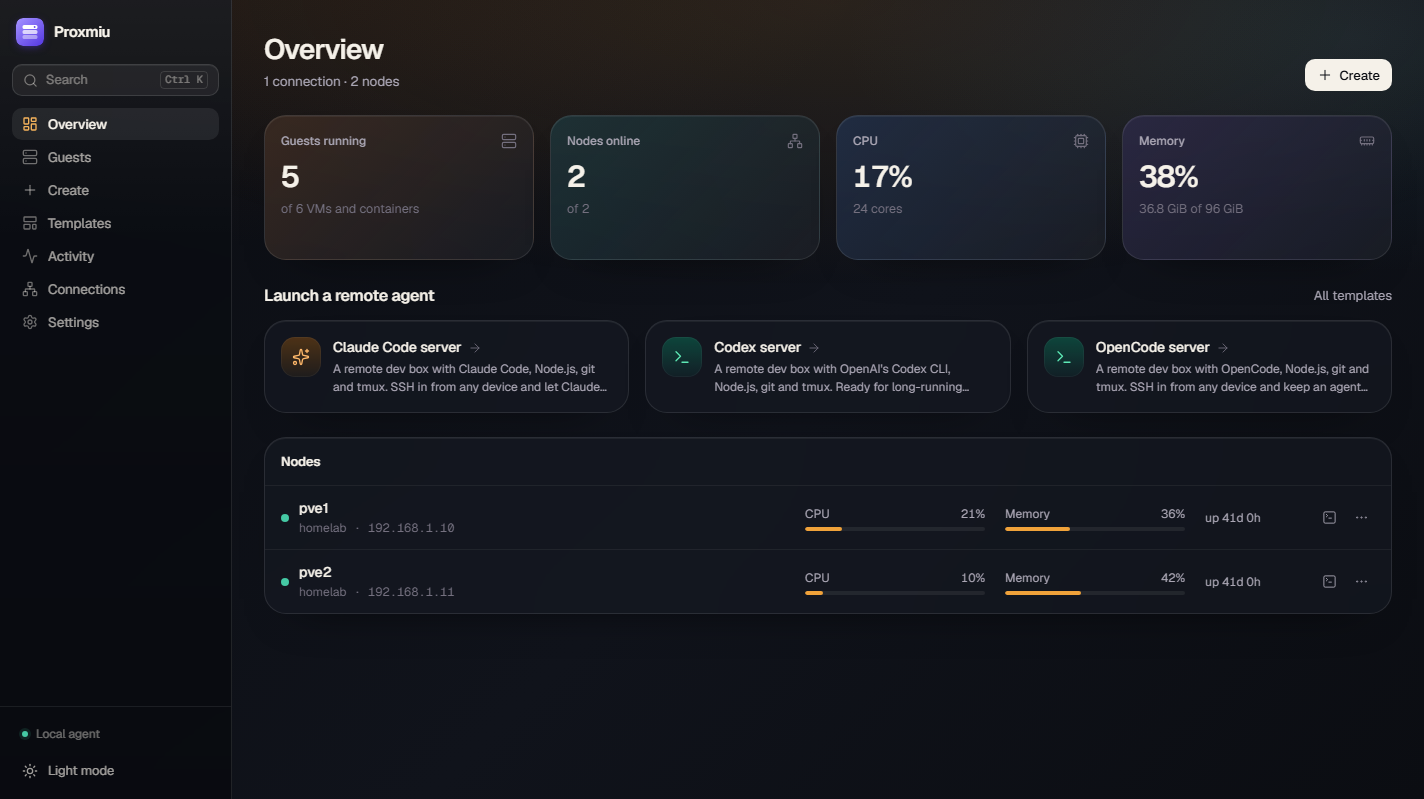
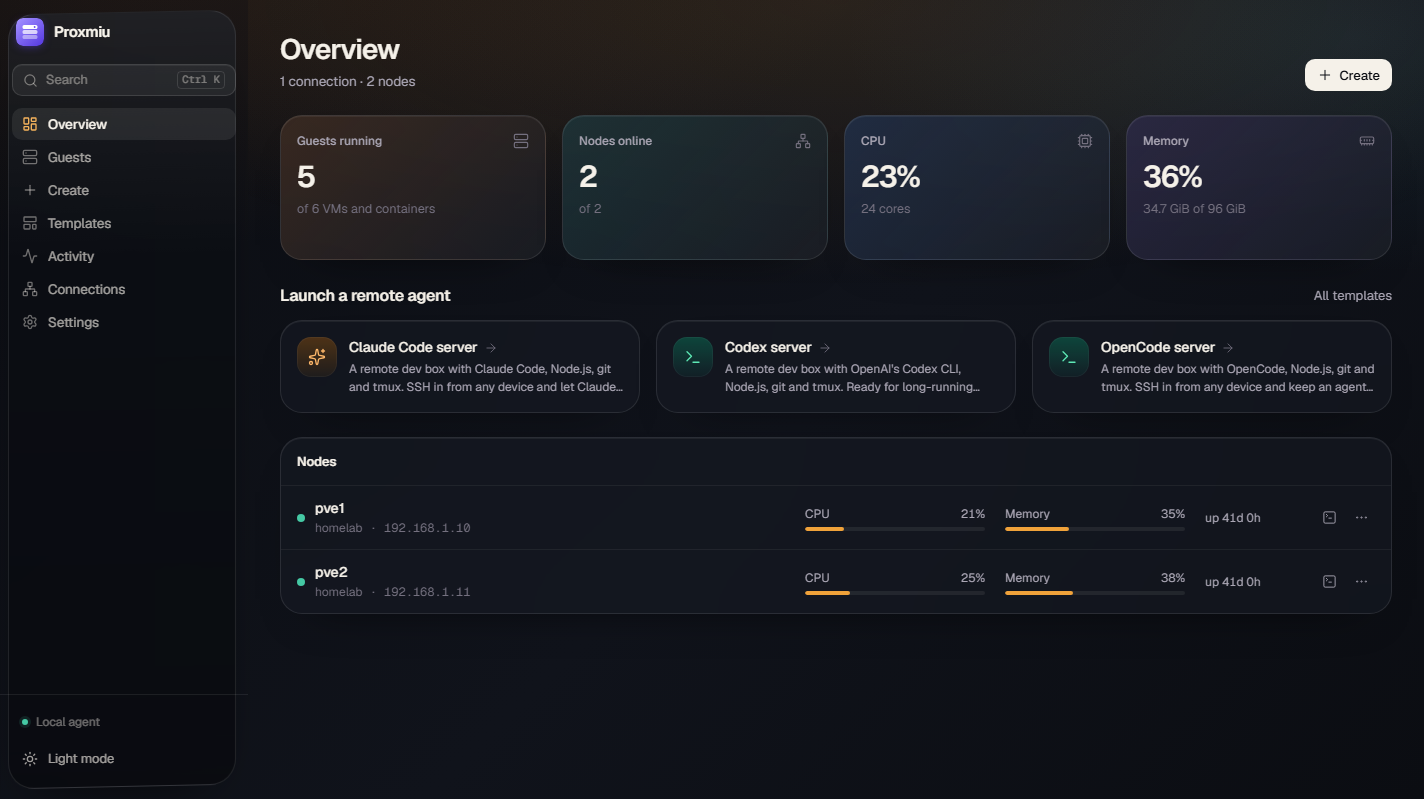
Skew the sidebar glass slab and refresh screenshots

diff --git a/web/src/components/Layout.tsx b/web/src/components/Layout.tsx
@@ -43,72 +43,78 @@ export function Layout({ authRequired, onLogout, onDisconnect }: { authRequired:
 
   return (
     <div className="flex h-full">
-      <aside className="nav-glass flex w-[232px] shrink-0 flex-col border-r border-white/10 bg-sidebar/90 backdrop-blur-2xl max-lg:w-[60px] max-sm:hidden">
-        <div className="flex h-16 items-center px-4 max-lg:justify-center max-lg:px-0">
-          <span className="max-lg:hidden">
-            <Logo />
-          </span>
-          <img src={LOGO} alt="Proxmiu" className="hidden size-7 rounded-[7px] max-lg:block" />
-        </div>
-        <div className="px-3 pb-2 max-lg:px-2">
-          <button
-            onClick={() => setPalette(true)}
-            className="flex h-8 w-full items-center gap-2 rounded-md border border-border bg-card px-2.5 text-[13px] text-faint shadow-[var(--shadow-card)] transition-colors hover:border-border-strong hover:text-muted max-lg:justify-center max-lg:px-0"
-          >
-            <Search className="size-[15px]" strokeWidth={2} />
-            <span className="max-lg:hidden">Search</span>
-            <kbd className="ml-auto rounded border border-border px-1 font-mono text-[10.5px] max-lg:hidden">{isMac ? '⌘' : 'Ctrl '}K</kbd>
-          </button>
-        </div>
-        <nav className="flex-1 space-y-px px-3 py-1 max-lg:px-2">
-          {nav.map(({ to, label, icon: Icon, end }) => (
-            <NavLink
-              key={to}
-              to={to}
-              end={end}
-              title={label}
-              className={({ isActive }) =>
-                cn(
-                  'group flex h-8 items-center gap-2.5 rounded-md px-2.5 text-[13.5px] text-muted transition-colors hover:bg-hover hover:text-foreground max-lg:justify-center max-lg:px-0',
-                  isActive && 'bg-hover font-medium text-foreground',
-                )
-              }
-            >
-              {({ isActive }) => (
-                <>
-                  <Icon className={cn('size-4 shrink-0 transition-colors', isActive ? 'text-brand' : 'text-faint group-hover:text-muted')} strokeWidth={2} />
-                  <span className="max-lg:hidden">{label}</span>
-                  {to === '/activity' && running > 0 && (
-                    <span className="tnum ml-auto flex h-[18px] min-w-[18px] items-center justify-center rounded-full bg-brand px-1 text-[11px] font-semibold text-white max-lg:hidden">
-                      {running}
-                    </span>
-                  )}
-                </>
-              )}
-            </NavLink>
-          ))}
-        </nav>
-        <div className="space-y-px border-t border-border-subtle p-3 max-lg:p-2">
-          <div className="mb-1.5 flex items-center gap-2 rounded-md px-2.5 py-1.5 text-[12px] text-faint max-lg:hidden" title={agentUrl || 'Agent serving this page'}>
-            <span className="size-1.5 shrink-0 rounded-full bg-success shadow-[0_0_0_3px_var(--success-soft)]" />
-            <span className="truncate">{agentUrl ? agentUrl.replace(/^https?:\/\//, '') : 'Local agent'}</span>
+      <aside className="nav-glass relative w-[248px] shrink-0 max-lg:w-[72px] max-sm:hidden">
+        <div
+          aria-hidden
+          className="nav-sheen sidebar-slab pointer-events-none absolute inset-y-3 left-2 right-3 rounded-[26px] border border-white/10 bg-sidebar/90 shadow-[0_24px_60px_-35px_rgba(0,0,0,0.9)] backdrop-blur-2xl max-lg:left-1 max-lg:right-2"
+        />
+        <div className="relative flex h-full flex-col pb-3">
+          <div className="flex h-16 items-center px-4 max-lg:justify-center max-lg:px-0">
+            <span className="max-lg:hidden">
+              <Logo />
+            </span>
+            <img src={LOGO} alt="Proxmiu" className="hidden size-7 rounded-[7px] max-lg:block" />
           </div>
-          <button onClick={toggle} className={cn(footerBtn, 'max-lg:justify-center max-lg:px-0')} title="Toggle theme">
-            {dark ? <Sun className="size-4" strokeWidth={2} /> : <Moon className="size-4" strokeWidth={2} />}
-            <span className="max-lg:hidden">{dark ? 'Light mode' : 'Dark mode'}</span>
-          </button>
-          {authRequired && (
-            <button onClick={onLogout} className={cn(footerBtn, 'max-lg:justify-center max-lg:px-0')} title="Log out">
-              <LogOut className="size-4" strokeWidth={2} />
-              <span className="max-lg:hidden">Log out</span>
+          <div className="px-3 pb-2 max-lg:px-2">
+            <button
+              onClick={() => setPalette(true)}
+              className="flex h-8 w-full items-center gap-2 rounded-md border border-border bg-card px-2.5 text-[13px] text-faint shadow-[var(--shadow-card)] transition-colors hover:border-border-strong hover:text-muted max-lg:justify-center max-lg:px-0"
+            >
+              <Search className="size-[15px]" strokeWidth={2} />
+              <span className="max-lg:hidden">Search</span>
+              <kbd className="ml-auto rounded border border-border px-1 font-mono text-[10.5px] max-lg:hidden">{isMac ? '⌘' : 'Ctrl '}K</kbd>
             </button>
-          )}
-          {onDisconnect && (
-            <button onClick={onDisconnect} className={cn(footerBtn, 'max-lg:justify-center max-lg:px-0')} title="Switch agent">
-              <Unplug className="size-4" strokeWidth={2} />
-              <span className="max-lg:hidden">Switch agent</span>
+          </div>
+          <nav className="flex-1 space-y-px px-3 py-1 max-lg:px-2">
+            {nav.map(({ to, label, icon: Icon, end }) => (
+              <NavLink
+                key={to}
+                to={to}
+                end={end}
+                title={label}
+                className={({ isActive }) =>
+                  cn(
+                    'group flex h-8 items-center gap-2.5 rounded-md px-2.5 text-[13.5px] text-muted transition-colors hover:bg-hover hover:text-foreground max-lg:justify-center max-lg:px-0',
+                    isActive && 'bg-hover font-medium text-foreground',
+                  )
+                }
+              >
+                {({ isActive }) => (
+                  <>
+                    <Icon className={cn('size-4 shrink-0 transition-colors', isActive ? 'text-brand' : 'text-faint group-hover:text-muted')} strokeWidth={2} />
+                    <span className="max-lg:hidden">{label}</span>
+                    {to === '/activity' && running > 0 && (
+                      <span className="tnum ml-auto flex h-[18px] min-w-[18px] items-center justify-center rounded-full bg-brand px-1 text-[11px] font-semibold text-white max-lg:hidden">
+                        {running}
+                      </span>
+                    )}
+                  </>
+                )}
+              </NavLink>
+            ))}
+          </nav>
+          <div className="space-y-px border-t border-border-subtle p-3 max-lg:p-2">
+            <div className="mb-1.5 flex items-center gap-2 rounded-md px-2.5 py-1.5 text-[12px] text-faint max-lg:hidden" title={agentUrl || 'Agent serving this page'}>
+              <span className="size-1.5 shrink-0 rounded-full bg-success shadow-[0_0_0_3px_var(--success-soft)]" />
+              <span className="truncate">{agentUrl ? agentUrl.replace(/^https?:\/\//, '') : 'Local agent'}</span>
+            </div>
+            <button onClick={toggle} className={cn(footerBtn, 'max-lg:justify-center max-lg:px-0')} title="Toggle theme">
+              {dark ? <Sun className="size-4" strokeWidth={2} /> : <Moon className="size-4" strokeWidth={2} />}
+              <span className="max-lg:hidden">{dark ? 'Light mode' : 'Dark mode'}</span>
             </button>
-          )}
+            {authRequired && (
+              <button onClick={onLogout} className={cn(footerBtn, 'max-lg:justify-center max-lg:px-0')} title="Log out">
+                <LogOut className="size-4" strokeWidth={2} />
+                <span className="max-lg:hidden">Log out</span>
+              </button>
+            )}
+            {onDisconnect && (
+              <button onClick={onDisconnect} className={cn(footerBtn, 'max-lg:justify-center max-lg:px-0')} title="Switch agent">
+                <Unplug className="size-4" strokeWidth={2} />
+                <span className="max-lg:hidden">Switch agent</span>
+              </button>
+            )}
+          </div>
         </div>
       </aside>
       <main className="relative min-w-0 flex-1 overflow-y-auto max-sm:pb-[calc(92px+env(safe-area-inset-bottom))]">
@@ -160,7 +166,7 @@ function MobileTabBar({
   const navigate = useNavigate()
   const tab = 'flex flex-1 flex-col items-center justify-center gap-1 text-[10.5px] font-medium text-faint transition-colors'
   return (
-    <nav className="nav-glass fixed inset-x-3 bottom-[calc(12px+env(safe-area-inset-bottom))] z-40 hidden rounded-2xl border border-white/15 bg-sidebar/90 p-1.5 shadow-[0_20px_60px_-20px_rgba(0,0,0,0.8)] backdrop-blur-2xl max-sm:flex">
+    <nav className="nav-glass nav-sheen fixed inset-x-3 bottom-[calc(12px+env(safe-area-inset-bottom))] z-40 hidden rounded-2xl border border-white/15 bg-sidebar/90 p-1.5 shadow-[0_20px_60px_-20px_rgba(0,0,0,0.8)] backdrop-blur-2xl max-sm:flex">
       {tabs.map(({ to, label, icon: Icon, end }) => (
         <NavLink key={to} to={to} end={end} className={({ isActive }) => cn(tab, 'relative h-14 rounded-xl', isActive && 'bg-hover text-foreground')}>
           {({ isActive }) => (

diff --git a/web/src/index.css b/web/src/index.css
@@ -196,8 +196,15 @@
   --border-strong: rgba(255, 255, 255, 0.2);
   --brand: #f6b45c;
   --brand-soft: rgba(246, 180, 92, 0.18);
-  background-image: linear-gradient(180deg, rgba(255, 255, 255, 0.06), transparent 30%, rgba(0, 0, 0, 0.18));
   color: var(--foreground);
+}
+
+.nav-sheen {
+  background-image: linear-gradient(180deg, rgba(255, 255, 255, 0.07), transparent 32%, rgba(0, 0, 0, 0.2));
+}
+
+.sidebar-slab {
+  transform: skewY(-1.2deg);
 }
 
 .tint-warm {
